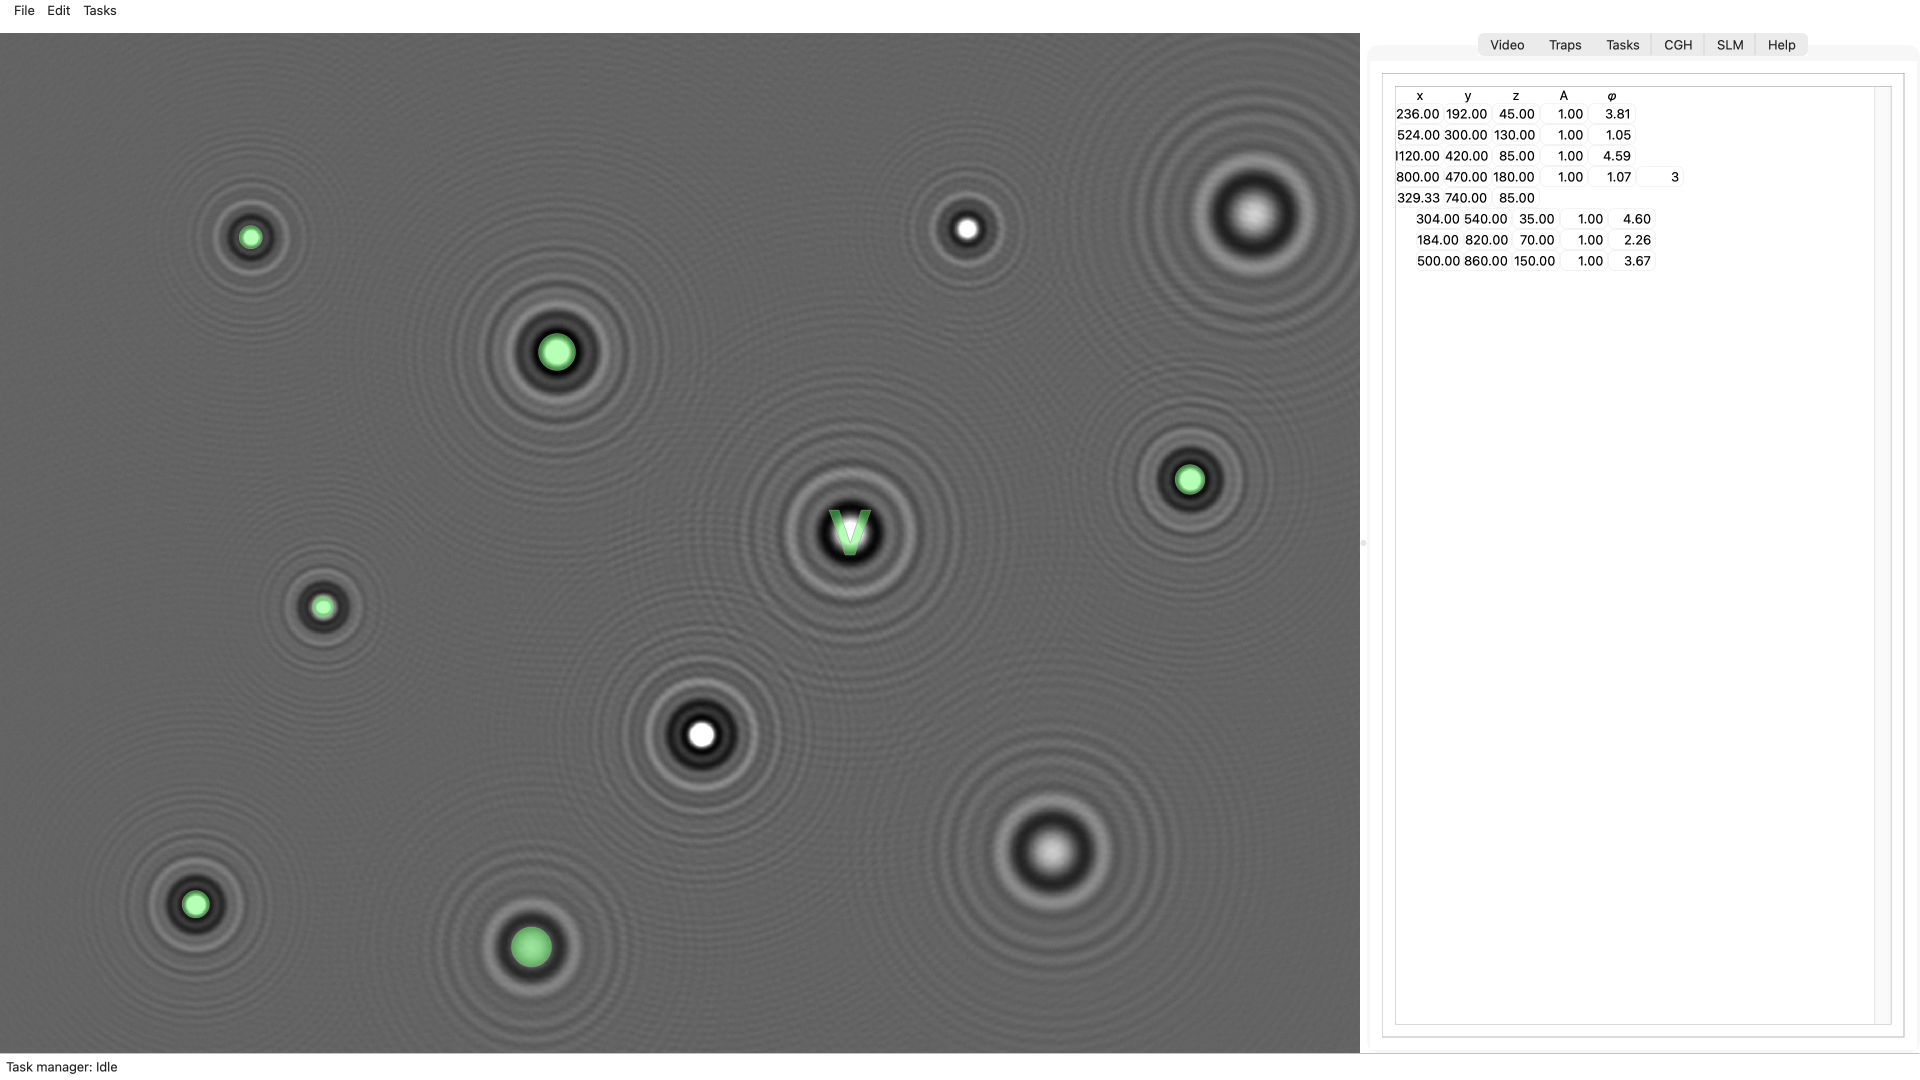
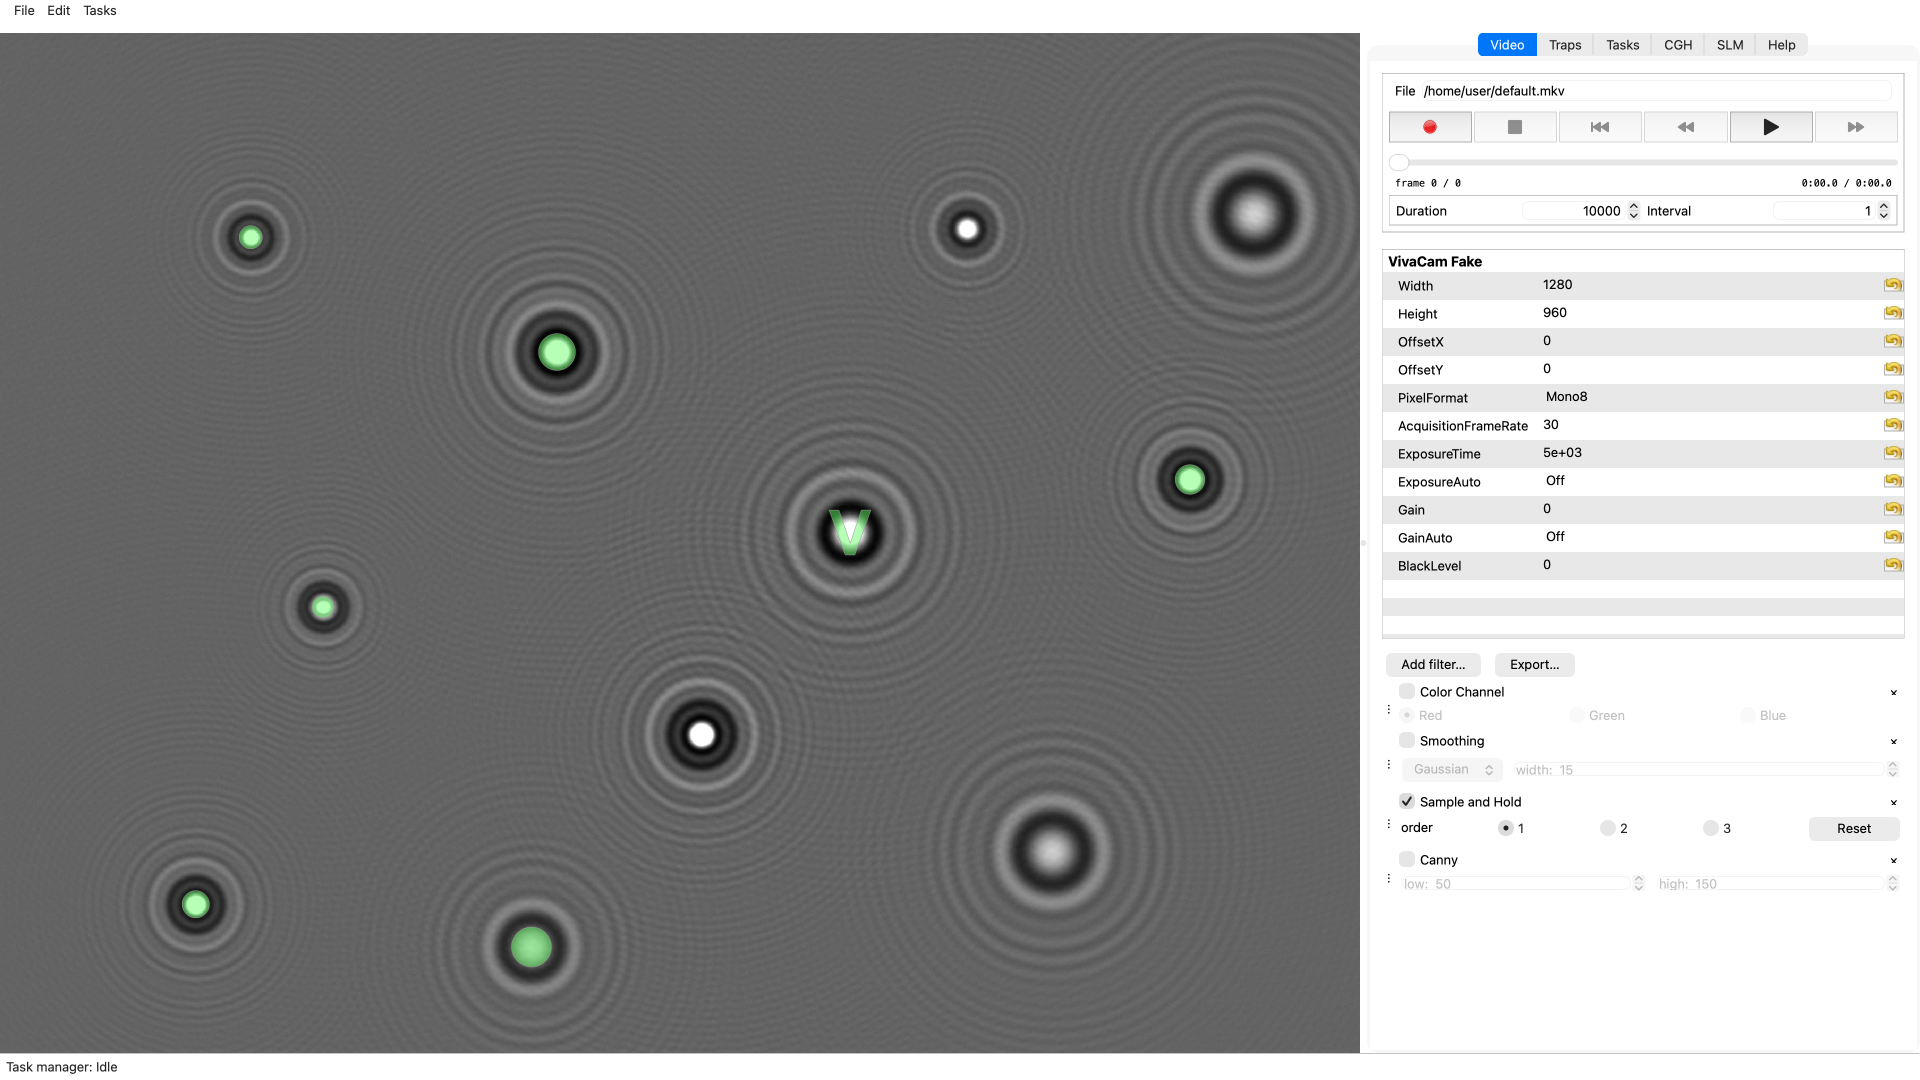
Screenshot: the Video tab, with the controls of a made-up camera
The Video tab shows the instrument: the recorder, the controls of a
GenICam camera and the filter rack with Sample and Hold on, which
agrees with the frame, whose background is normalized.  The camera is
the fake GigE Vision camera that viva-genicam runs in the process, so
the tree is the real one of QVideo's viva backend, and no hardware is
needed.  The window is marked active, so that the selected tab looks
selected, though it is not put on the screen.  The README says what is
simulated.

devel/screenshot.py takes --tab and --camera.

Changed region(s): [[0.7188, 0.0306, 1.0, 0.55], [0.7188, 0.6111, 0.8125, 0.825], [0.7188, 0.4889, 0.75, 0.55]]

diff --git a/devel/screenshot.py b/devel/screenshot.py
@@ -16,6 +16,10 @@ QHOT::
     python devel/screenshot.py --make-frame frame.npy      # pylorenzmie
     python devel/screenshot.py --frame frame.npy shot.png  # QHOT
 
+``--camera viva`` makes the camera tree of a GenICam camera that is made up
+too: the fake GigE Vision camera that viva-genicam ships, which runs in this
+process.  It needs a QVideo that has the viva backend.
+
 Run the second with ``QT_QPA_PLATFORM=cocoa`` on a Mac, so that the window
 has the look of the platform, which the offscreen platform cannot draw.  The
 window is not shown, so the display need not be as large as the window.
@@ -24,7 +28,7 @@ import argparse
 import importlib
 import sys
 import tempfile
-from contextlib import ExitStack
+from contextlib import ExitStack, contextmanager
 from pathlib import Path
 from unittest.mock import patch
 
@@ -64,6 +68,24 @@ def make_frame(seed: int = 3) -> np.ndarray:
     return np.clip(hologram, 0, 255).astype(np.uint8)
 
 
+@contextmanager
+def fake_gige_camera():
+    '''Run the fake camera of viva-genicam, and let QVideo find it.
+
+    Discovery looks on the network and not on the loopback interface, where
+    the fake camera is, unless it is asked to.
+    '''
+    import viva_genicam as vg
+    from viva_genicam.testing import FakeGigeCamera
+
+    discover = vg.discover
+    with FakeGigeCamera(width=SHAPE[1], height=SHAPE[0], fps=10), \
+            patch.object(vg, 'discover',
+                         lambda *args, **kwargs: discover(*args, all=True,
+                                                          **kwargs)):
+        yield
+
+
 class Display:
 
     '''A display of a given size, as far as the window asks about it.'''
@@ -77,7 +99,11 @@ class Display:
         return QtCore.QRect(0, 0, self.width, self.height)
 
 
-def grab(frame: np.ndarray, path: str, width: int) -> None:
+def grab(frame: np.ndarray,
+         path: str,
+         width: int,
+         tab: str,
+         camera: str) -> None:
     '''Build the window, show the frame and the traps, and save the window.'''
     from qtpy import QtCore, QtWidgets
     from QVideo.cameras import chooser
@@ -94,12 +120,15 @@ def grab(frame: np.ndarray, path: str, width: int) -> None:
                 patch.object(qhot.QHOT, 'saveSettings'),
                 patch.object(qhot.QHOT, 'restoreSettings'),
                 patch.object(Path, 'home', return_value=Path(home.name)),
-                patch.object(sys, 'argv', ['qhot']),
+                patch.object(sys, 'argv',
+                             ['qhot'] + (['-g'] if camera == 'viva' else [])),
                 patch.object(QtWidgets.QApplication, 'primaryScreen',
                              return_value=display)):
             patches.enter_context(patched)
-        key, camera = chooser.open_camera()
-        tree = chooser.make_tree(key, camera).start()
+        if camera == 'viva':
+            patches.enter_context(fake_gige_camera())
+        key, device = chooser.open_camera()
+        tree = chooser.make_tree(key, device).start()
         slm = QSLM(fake=True)
         slm.hide()
         window = qhot.QHOT(tree, slm=slm, cgh=CGH(shape=slm.shape))
@@ -121,6 +150,7 @@ def grab(frame: np.ndarray, path: str, width: int) -> None:
         window.setAttribute(QtCore.Qt.WidgetAttribute.WA_DontShowOnScreen)
         window.resize(*DISPLAY)
         window.show()
+        QtWidgets.QApplication.setActiveWindow(window)   # tabs look selected
         spin(500)
         chrome = window.height() - window.centralWidget().height()
         video = (DISPLAY[1] - chrome) * SHAPE[1] // SHAPE[0]
@@ -129,6 +159,7 @@ def grab(frame: np.ndarray, path: str, width: int) -> None:
         spin(500)
         window.resize(*DISPLAY)             # the window snaps to the video
         spin(500)
+        window.dvr.filename = '/home/user/default.mkv'   # not a temporary one
         window.screen.setImage(frame)
         overlay = window.screen.overlay
         members = []
@@ -142,7 +173,12 @@ def grab(frame: np.ndarray, path: str, width: int) -> None:
         group = QTrapGroup(r=np.mean([m.r for m in members], axis=0))
         group.addTrap(members)
         overlay.addTrap(group)
-        window.tabWidget.setCurrentIndex(1)       # the Traps tab
+        for video_filter in window.filter.filters:
+            if video_filter.title() == 'Sample and Hold':
+                video_filter.setChecked(True)     # the frame is normalized
+        tabs = window.tabWidget
+        names = [tabs.tabText(i).lower() for i in range(tabs.count())]
+        tabs.setCurrentIndex(names.index(tab))
         spin(800)
         image = window.grab()
         print(f'window {window.width()}x{window.height()}, '
@@ -154,7 +190,7 @@ def grab(frame: np.ndarray, path: str, width: int) -> None:
         image.save(path)
         window.close()
         tree.stop()
-        camera.close()
+        device.close()
     home.cleanup()
 
 
@@ -169,12 +205,20 @@ def main() -> None:
                         help='width of the image [pixels]; 0 keeps the '
                         'size at which the window was drawn (default: the '
                         'width of the display, one pixel to a pixel)')
+    parser.add_argument('--tab', default='video',
+                        choices=('video', 'traps', 'tasks', 'cgh', 'slm'),
+                        help='the tab of the panel to show (default: video)')
+    parser.add_argument('--camera', default='noise',
+                        choices=('noise', 'viva'),
+                        help='the camera whose controls the Video tab shows '
+                        '(default: noise)')
     parser.add_argument('image', nargs='?', help='where to save the image')
     args = parser.parse_args()
     if args.make_frame:
         np.save(args.make_frame, make_frame())
     elif args.frame and args.image:
-        grab(np.load(args.frame), args.image, args.width)
+        grab(np.load(args.frame), args.image, args.width, args.tab,
+             args.camera)
     else:
         parser.error('give --make-frame FILE, or --frame FILE and an image')
 

diff --git a/README.md b/README.md
@@ -7,12 +7,13 @@
 [![License](https://img.shields.io/github/license/davidgrier/QHOT.svg)](LICENSE)
 [![DOI](https://zenodo.org/badge/DOI/10.5281/zenodo.19254265.svg)](https://doi.org/10.5281/zenodo.19254265)
 
-![The QHOT window: holograms of colloidal spheres on the video screen, with optical traps on seven of them, and the table of the traps beside it](https://raw.githubusercontent.com/davidgrier/QHOT/main/docs/_static/screenshot.png)
+![The QHOT window on a 1080p display: holograms of colloidal spheres on the video screen, with optical traps on seven of them, and the Video tab beside it with the recorder, the controls of a GenICam camera and the filter rack](https://raw.githubusercontent.com/davidgrier/QHOT/main/docs/_static/screenshot.png)
 
 *The QHOT window on a simulated video frame: holograms of colloidal spheres,
 computed with [pylorenzmie](https://github.com/davidgrier/pylorenzmie), with
-traps on seven of them.  The Traps tab lists the three tweezers, the vortex
-(`V`) and the group of three tweezers.*
+traps on seven of them at heights from 35 to 240 pixels, so that the markers
+differ in size.  The Video tab shows the recorder, the controls of a
+simulated GenICam camera and the filter rack, with Sample and Hold on.*
 
 **QHOT** is a Python framework for holographic optical trapping — controlling
 spatial light modulators (SLMs) to create, move, and reconfigure optical traps

diff --git a/CHANGELOG.md b/CHANGELOG.md
@@ -43,6 +43,8 @@
 ### Documented
 - README: the screenshot is the real window on a frame of simulated
   holograms, made by `devel/screenshot.py`, with traps at several heights.
+  It shows the Video tab, with the controls of the fake camera of
+  viva-genicam.
 - README: QHOT has been demonstrated to work correctly on hardware, with a
   Holoeye Pluto SLM on the secondary display of an Ubuntu system with an
   NVIDIA graphics card.
